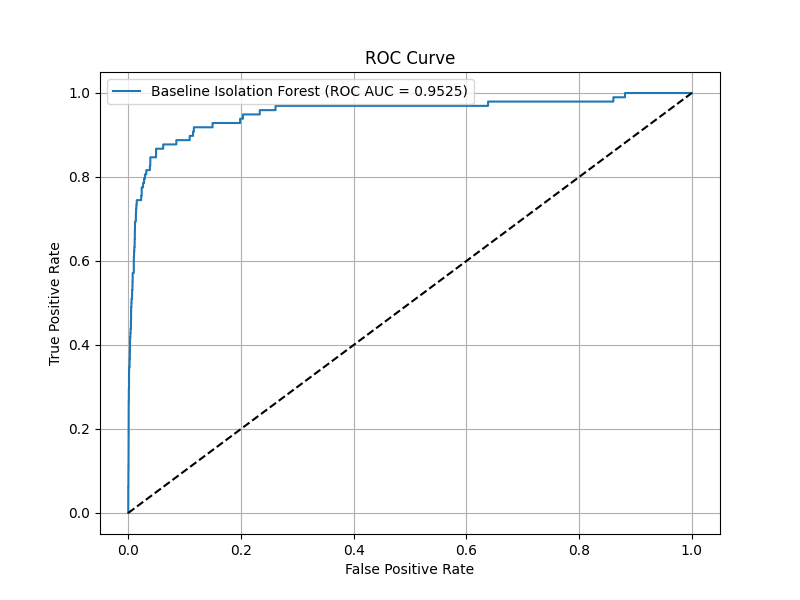
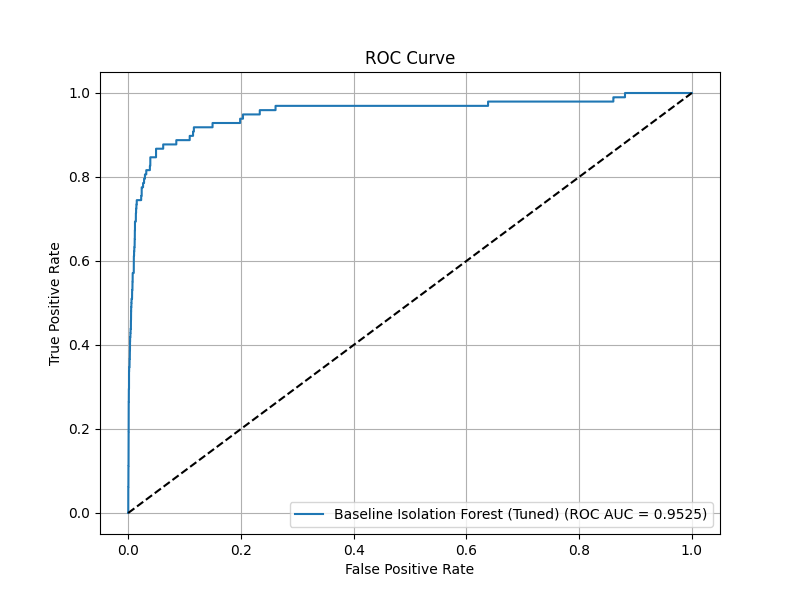
version 2

Changed region(s): [[0.125, 0.12, 0.5938, 0.18], [0.375, 0.84, 0.9062, 0.87]]

diff --git a/run_training.py b/run_training.py
@@ -2,13 +2,21 @@
 # run_training.py
 """
 Main training pipeline for the Explainable Anomaly Detection (XAD) framework.
+Includes hyperparameter tuning.
 """
 
-import sys
+import os, sys
 from pathlib import Path
 import logging
 import numpy as np
 import pandas as pd
+from itertools import product # Import product for grid search
+
+# Force base directory to project root
+BASE_DIR = Path(__file__).resolve().parent
+sys.path.append(str(BASE_DIR / "src"))
+
+os.environ["PROJECT_ROOT"] = str(BASE_DIR)
 
 # Add src to path
 SRC_DIR = Path(__file__).parent / "src"
@@ -23,6 +31,7 @@ from generator import FraudCTGAN
 from evaluator import Evaluator
 
 # --- Set up logging ---
+# (logging setup is the same)
 logging.basicConfig(
     level=logging.INFO,
     format='%(asctime)s - %(name)s - %(levelname)s - %(message)s',
@@ -34,10 +43,11 @@ logging.basicConfig(
 logger = logging.getLogger(__name__)
 
 def main():
-    logger.info("--- Starting XAD Training Pipeline ---")
+    logger.info("--- Starting XAD Training Pipeline (with Hyperparameter Tuning) ---")
 
     # === STEP 1: LOAD AND SPLIT DATA ===
     logger.info("--- STEP 1: Loading and Splitting Data ---")
+    # (This section is unchanged)
     df = load_creditcard_data()
     if df is None:
         logger.error("Failed to load data. Exiting.")
@@ -52,38 +62,80 @@ def main():
 
     # === STEP 2: PREPROCESS DATA ===
     logger.info("--- STEP 2: Preprocessing Data ---")
+    # (This section is unchanged)
     preprocessor = Preprocessor(features_to_scale=config.FEATURES_TO_SCALE)
     
-    # Fit on training data
     X_train = preprocessor.fit_transform(train_df)
-    # Transform validation and test data
     X_val = preprocessor.transform(val_df)
     X_test = preprocessor.transform(test_df)
     
     preprocessor.save()
     feature_names = preprocessor.get_feature_names_out()
 
-    # === STEP 3: TRAIN & EVALUATE BASELINE DETECTOR ===
-    logger.info("--- STEP 3: Training and Evaluating Baseline Detector ---")
-    detector_base = IsfDetector(**config.ISOLATION_FOREST_PARAMS)
-    detector_base.fit(X_train)
+    # === STEP 3: HYPERPARAMETER TUNING FOR BASELINE DETECTOR ===
+    logger.info("--- STEP 3: Hyperparameter Tuning for Baseline Detector ---")
     
-    # Get scores for validation set and evaluate
-    val_scores_base = detector_base.get_scores(X_val)
-    evaluator_base = Evaluator(y_val, val_scores_base, "Baseline IF")
+    best_detector = None
+    best_val_metrics = None
+    best_auprc = -1.0 # We want to maximize AUPRC
+    best_params = {}
+
+    # Create all combinations of parameters
+    param_keys = config.HYPERPARAM_GRID.keys()
+    param_values = config.HYPERPARAM_GRID.values()
+    param_combinations = [dict(zip(param_keys, v)) for v in product(*param_values)]
+
+    logger.info(f"Starting grid search with {len(param_combinations)} combinations...")
+
+    for params in param_combinations:
+        # Add the fixed parameters
+        params['contamination'] = config.BASE_CONTAMINATION
+        params['random_state'] = config.BASE_RANDOM_STATE
+        params['n_jobs'] = -1
+        
+        logger.info(f"Testing params: {params}")
+        
+        # Train the detector
+        detector = IsfDetector(**params)
+        detector.fit(X_train)
+        
+        # Evaluate on validation set
+        val_scores = detector.get_scores(X_val)
+        evaluator = Evaluator(y_val, val_scores, f"IF {params['n_estimators']}-{params['max_samples']}")
+        
+        # Find best metrics
+        val_metrics = evaluator.find_best_threshold()
+        current_auprc = val_metrics['auprc']
+        logger.info(f"Validation AUPRC: {current_auprc:.4f}, F1: {val_metrics['best_f1']:.4f}")
+
+        # Check if this model is the best one so far
+        if current_auprc > best_auprc:
+            best_auprc = current_auprc
+            best_detector = detector
+            best_val_metrics = val_metrics
+            best_params = params
+            logger.info(f"*** New best model found with AUPRC: {best_auprc:.4f} ***")
+
+    logger.info("--- Grid Search Complete ---")
+    logger.info(f"Best params: {best_params}")
+    logger.info(f"Best validation AUPRC: {best_val_metrics['auprc']:.4f}")
+    logger.info(f"Best validation F1: {best_val_metrics['best_f1']:.4f}")
     
-    # Find the best threshold on the validation set
-    val_metrics_base = evaluator_base.find_best_threshold()
+    # Use the best model from the grid search
+    detector_base = best_detector
+    val_metrics_base = best_val_metrics
     baseline_threshold = val_metrics_base['best_threshold']
     baseline_f1 = val_metrics_base['best_f1']
     
     detector_base.save(config.MODELS_DIR / "isolation_forest_base.joblib")
 
-    # === STEP 4: GENERATE SHAP EXPLANATIONS (from baseline) ===
+
+    # === STEP 4: GENERATE SHAP EXPLANATIONS (from BEST baseline) ===
     logger.info("--- STEP 4: Generating SHAP Explanations ---")
+    # (This section is unchanged, it will now use the *best* detector)
     explainer = SHAPExplainer(detector_base, feature_names)
     
-    # Find anomalies in the validation set using our new threshold
+    val_scores_base = detector_base.get_scores(X_val)
     val_anomaly_scores = -val_scores_base
     anomaly_indices = np.where(val_anomaly_scores > baseline_threshold)[0]
     
@@ -91,10 +143,7 @@ def main():
         n_explain = min(config.N_EXPLANATIONS, len(anomaly_indices))
         logger.info(f"Generating explanations for top {n_explain} anomalies...")
         
-        # Get the instances to explain
-        # Need to use .iloc to select by integer position
         anomalies_to_explain_df = X_val.iloc[anomaly_indices[:n_explain]]
-        
         shap_values = explainer.explain_batch(anomalies_to_explain_df)
         
         for i in range(n_explain):
@@ -104,7 +153,6 @@ def main():
             )
             logger.info(f"Explanation for Anomaly {i+1}:\n{explanation}")
         
-        # Create summary plot based on all validation data
         all_shap_values = explainer.explain_batch(X_val)
         explainer.summary_plot(all_shap_values, X_val, save_path=config.SHAP_SUMMARY_PLOT)
         
@@ -112,11 +160,9 @@ def main():
 
     # === STEP 5: TRAIN & EVALUATE AUGMENTED DETECTOR ===
     logger.info("--- STEP 5: Training and Evaluating Augmented Detector (CTGAN) ---")
+    # (This section is unchanged, but we'll use the *best* params for the augmented model)
     
-    # Get real fraud samples from the training set [cite: 69]
     fraud_df = train_df[train_df[config.TARGET] == 1].drop(config.TARGET, axis=1)
-    
-    # Get the *preprocessed* fraud data for training the new detector
     X_train_fraud = X_train[y_train == 1]
     
     if len(fraud_df) < 10:
@@ -126,11 +172,10 @@ def main():
     else:
         # 1. Train CTGAN
         ctgan = FraudCTGAN(**config.CTGAN_PARAMS)
-        # We train CTGAN on the *original*, *un-scaled* fraud data
         ctgan.fit(fraud_df[feature_names]) 
         
-        # 2. Generate synthetic samples [cite: 71]
-        n_synthetic = len(X_train) - len(X_train_fraud) # Create a 50/50 balance
+        # 2. Generate synthetic samples
+        n_synthetic = len(X_train) - len(X_train_fraud) 
         synthetic_fraud_df = ctgan.sample(n_synthetic)
         
         # 3. Evaluate synthetic data
@@ -138,24 +183,24 @@ def main():
         ctgan.save()
 
         # 4. Preprocess synthetic data
-        # We need to add a dummy 'Class' column so the preprocessor can drop it
         synthetic_fraud_df[config.TARGET] = 1 
         X_synthetic_fraud = preprocessor.transform(synthetic_fraud_df)
         
-        # 5. Create augmented training set [cite: 72]
+        # 5. Create augmented training set
         X_train_aug = pd.concat([X_train, X_synthetic_fraud], ignore_index=True)
         y_synthetic_fraud = pd.Series([1] * len(X_synthetic_fraud))
         y_train_aug = pd.concat([y_train, y_synthetic_fraud], ignore_index=True)
         
         logger.info(f"Augmented training set: {len(X_train_aug)} samples")
         
-        # 6. Train augmented detector
-        detector_aug = IsfDetector(**config.ISOLATION_FOREST_PARAMS)
-        # Note: We must adjust contamination for the new, balanced dataset
-        new_contamination = min(max(y_train_aug.mean(), 0.001), 0.5)
-        detector_aug.model.contamination = new_contamination
-        logger.info(f"Adjusted contamination for augmented data: {new_contamination:.6f}")
-
+        # 6. Train augmented detector (using the BEST params from grid search)
+        logger.info(f"Training augmented model with best params: {best_params}")
+        
+        # We must adjust contamination for the new, balanced dataset
+        aug_params = best_params.copy()
+        aug_params['contamination'] = y_train_aug.mean()
+        
+        detector_aug = IsfDetector(**aug_params)
         detector_aug.fit(X_train_aug)
         
         # 7. Evaluate augmented detector on validation set
@@ -168,9 +213,8 @@ def main():
 
     # === STEP 6: FINAL EVALUATION ON TEST SET ===
     logger.info("--- STEP 6: Final Evaluation on Test Set ---")
+    # (This section is unchanged, it will now compare the *best* baseline vs. augmented)
     
-    # --- THIS IS THE CRITICAL FIX ---
-    # Select the best model based on validation F1 score
     if augmented_f1 > baseline_f1:
         logger.info("Augmented model performed better on validation set.")
         final_detector = detector_aug
@@ -180,7 +224,7 @@ def main():
         logger.info("Baseline model performed better or augmentation was skipped.")
         final_detector = detector_base
         final_threshold = baseline_threshold
-        final_model_name = "Baseline Isolation Forest"
+        final_model_name = "Baseline Isolation Forest (Tuned)"
         
     logger.info(f"Using model: {final_model_name}")
     logger.info(f"Using threshold (from validation): {final_threshold:.4f}")
@@ -200,6 +244,7 @@ def main():
     # 4. Generate report
     with open(config.EVALUATION_REPORT, 'w') as f:
         f.write(f"--- Final Evaluation Report for {final_model_name} ---\n\n")
+        f.write(f"Best Params (from grid search): {best_params}\n")
         f.write(f"Threshold (from validation set): {final_threshold:.4f}\n\n")
         f.write("--- Test Set Metrics ---\n")
         for key, val in final_metrics.items():
@@ -207,6 +252,7 @@ def main():
             
     logger.info(f"Final evaluation report saved to {config.EVALUATION_REPORT}")
     logger.info("--- XAD Training Pipeline Completed Successfully ---")
+
 
 if __name__ == "__main__":
     main()

diff --git a/src/config.py b/src/config.py
@@ -1,12 +1,10 @@
 # config.py
-"""
-Configuration file for the Explainable Anomaly Detection (XAD) project.
-"""
 
 from pathlib import Path
+import os
 
 # --- File Paths ---
-BASE_DIR = Path(__file__).resolve().parent.parent
+BASE_DIR = Path(os.getenv("PROJECT_ROOT", Path(__file__).resolve().parent.parent))
 DATA_DIR = BASE_DIR / "data"
 RAW_DATA_DIR = DATA_DIR / "raw"
 PROCESSED_DATA_DIR = DATA_DIR / "processed"
@@ -15,6 +13,7 @@ REPORTS_DIR = BASE_DIR / "reports"
 REPORTS_DIR.mkdir(parents=True, exist_ok=True)
 MODELS_DIR.mkdir(parents=True, exist_ok=True)
 
+# ... (keep all other paths the same) ...
 # Original dataset file
 CREDIT_CARD_DATASET = RAW_DATA_DIR / "creditcard.csv"
 
@@ -22,6 +21,33 @@ CREDIT_CARD_DATASET = RAW_DATA_DIR / "creditcard.csv"
 TRAIN_DATA = PROCESSED_DATA_DIR / "train.csv"
 VAL_DATA = PROCESSED_DATA_DIR / "val.csv"
 TEST_DATA = PROCESSED_DATA_DIR / "test.csv"
+
+# --- Data and Feature Settings ---
+TARGET = 'Class'
+FEATURES_TO_SCALE = ['Time', 'Amount']
+
+# --- Model Parameters ---
+
+# NEW: Grid for hyperparameter tuning
+# We will test all combinations of these values.
+HYPERPARAM_GRID = {
+    'n_estimators': [100, 200, 300],
+    'max_samples': [256, 'auto']
+}
+
+# Base contamination
+BASE_CONTAMINATION = 0.00172
+BASE_RANDOM_STATE = 42
+
+# CTGAN parameters
+CTGAN_PARAMS = {
+    'epochs': 300,
+    'batch_size': 50,
+    'verbose': True
+}
+
+# --- SHAP Explainer Settings ---
+N_EXPLANATIONS = 5
 
 # Model artifact paths
 PREPROCESSOR_PATH = MODELS_DIR / "preprocessor.joblib"

diff --git a/src/evaluator.py b/src/evaluator.py
@@ -7,6 +7,7 @@ import numpy as np
 import matplotlib.pyplot as plt
 import seaborn as sns
 from sklearn.metrics import (
+    auc,
     precision_recall_curve,
     average_precision_score,
     roc_auc_score,
@@ -66,18 +67,23 @@ class Evaluator:
         # Get the threshold that yields the best F1
         best_f1_idx = np.argmax(f1_scores)
         self.best_threshold = thresholds[best_f1_idx]
+
+         # Compute AUPRC (area under the PR curve)
+        auprc = auc(recall, precision)
         
         # Get metrics at this best threshold
         self.metrics['best_f1'] = f1_scores[best_f1_idx]
         self.metrics['best_precision'] = precision[best_f1_idx]
         self.metrics['best_recall'] = recall[best_f1_idx]
+        self.metrics['auprc'] = auprc
         self.metrics['best_threshold'] = self.best_threshold
         
         logger.info(f"[{self.model_name}] Best Threshold (via F1): {self.best_threshold:.4f}")
         logger.info(f"[{self.model_name}] Best F1: {self.metrics['best_f1']:.4f}")
         logger.info(f"[{self.model_name}] Best Precision: {self.metrics['best_precision']:.4f}")
         logger.info(f"[{self.model_name}] Best Recall: {self.metrics['best_recall']:.4f}")
-        
+        logger.info(f"[{self.model_name}] AUPRC: {self.metrics['auprc']:.4f}")
+
         return self.metrics
 
     def get_metrics_at_threshold(self, threshold):
